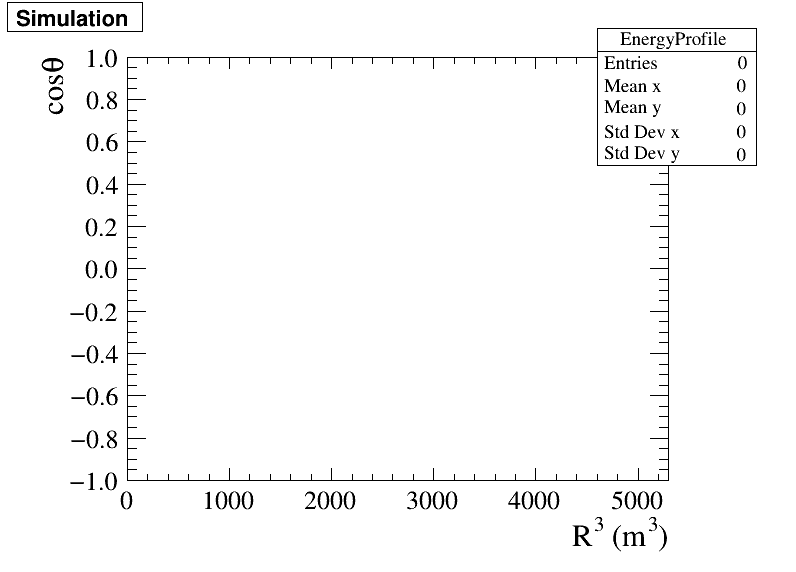
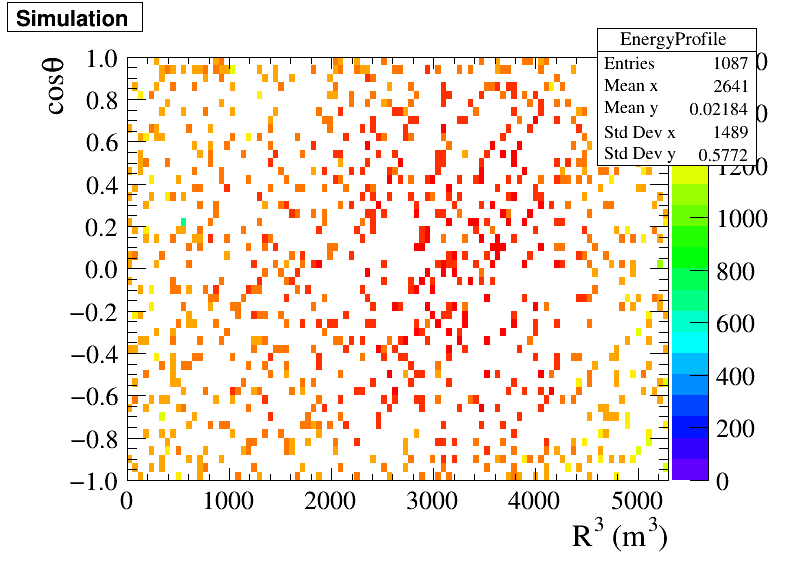
try on Job

Changed region(s): [[0.1508, 0.0892, 0.9648, 0.8619], [0.1508, 0.535, 0.1809, 0.5647]]

diff --git a/Roottest/EnergyLeakage/GetPE2R3.C b/Roottest/EnergyLeakage/GetPE2R3.C
@@ -31,6 +31,7 @@
 #include <TFile.h>
 #include <TVector3.h>
 #include <vector>
+#include <cmath>
 
 void GetPE2R3::Begin(TTree * /*tree*/)
 {
@@ -50,6 +51,10 @@ void GetPE2R3::SlaveBegin(TTree * /*tree*/)
    TString option = GetOption();
    h_ep = new TH2F("EnergyProfile", "Simulation", NBinx, Ran_x[0], Ran_x[1], NBiny, Ran_y[0], Ran_y[1]);
    fOutput->Add(h_ep);
+   TotalBin = h_ep->GetSize();
+   BinValue = new int[TotalBin];
+   for (int i = 0; i < TotalBin; i++)
+      BinValue[i] = 0;
 }
 
 Bool_t GetPE2R3::Process(Long64_t entry)
@@ -78,7 +83,7 @@ Bool_t GetPE2R3::Process(Long64_t entry)
    // printf("edep:%f\n", edep.At(1));
    geninfoReader.SetLocalEntry(entry);
    nCaptureReader.SetLocalEntry(entry);
-   TVector3 EvtPos(InitX[0], InitY[0], InitZ[0]);
+   TVector3 EvtPos(InitX[0] / 1e3, InitY[0] / 1e3, InitZ[0] / 1e3);
    int PromptCount(0);
    for (int j = 0; j < *totalPE; j++)
    { //avoid short time capture
@@ -87,6 +92,15 @@ Bool_t GetPE2R3::Process(Long64_t entry)
          PromptCount++;
       }
    }
+   float Photon2edep(PromptCount / edep[0]);
+   int ithBIN(0);
+   double R_cubic = pow(EvtPos.Mag2(), 1.5);
+   double Costheta = EvtPos.CosTheta();
+   // printf("x:%f\ty:%f\tz:%f\n", R_cubic, Costheta, Photon2edep);
+   ithBIN = h_ep->Fill(R_cubic, Costheta, Photon2edep);
+   if (ithBIN > 0)
+      BinValue[ithBIN - 1]++;
+
    // }
    return kTRUE;
 }
@@ -105,6 +119,18 @@ void GetPE2R3::Terminate()
    // the results graphically or save the results to file.
    h_ep = dynamic_cast<TH2F *>(fOutput->FindObject("EnergyProfile"));
    TCanvas c("myCanvasName", "The Canvas Title", 800, 600);
+   double Content_i = 0;
+   //calculate average
+   for (int i = 0; i < TotalBin; i++)
+   {
+      Content_i = h_ep->GetBinContent(i + 1);
+      if (BinValue[i] > 1)
+      {
+         Content_i /= BinValue[i];
+         h_ep->SetBinContent(i + 1, Content_i);
+         // printf("BinValue[i]：%d\tContent_i:%f\n", BinValue[i], Content_i);
+      }
+   }
    h_ep->SetXTitle("R^{3} (m^{3})");
    h_ep->SetYTitle("cos#theta");
    h_ep->Draw("colz");

diff --git a/Roottest/EnergyLeakage/GetPE2R3.h b/Roottest/EnergyLeakage/GetPE2R3.h
@@ -52,7 +52,7 @@ public:
    TH2F *h_ep;
 
    GetPE2R3(TTree * /*tree*/ = 0) { Reset(); }
-   virtual ~GetPE2R3() {}
+   virtual ~GetPE2R3() { delete BinValue; }
    virtual Int_t Version() const { return 2; }
    virtual void Begin(TTree *tree);
    virtual void SlaveBegin(TTree *tree);
@@ -88,6 +88,8 @@ private:
    int NBinx = 100;
    int NBiny = 50;
    double PromptTimeCut = 1000;
+   int TotalBin = 0;
+   int *BinValue;
 };
 
 #endif
